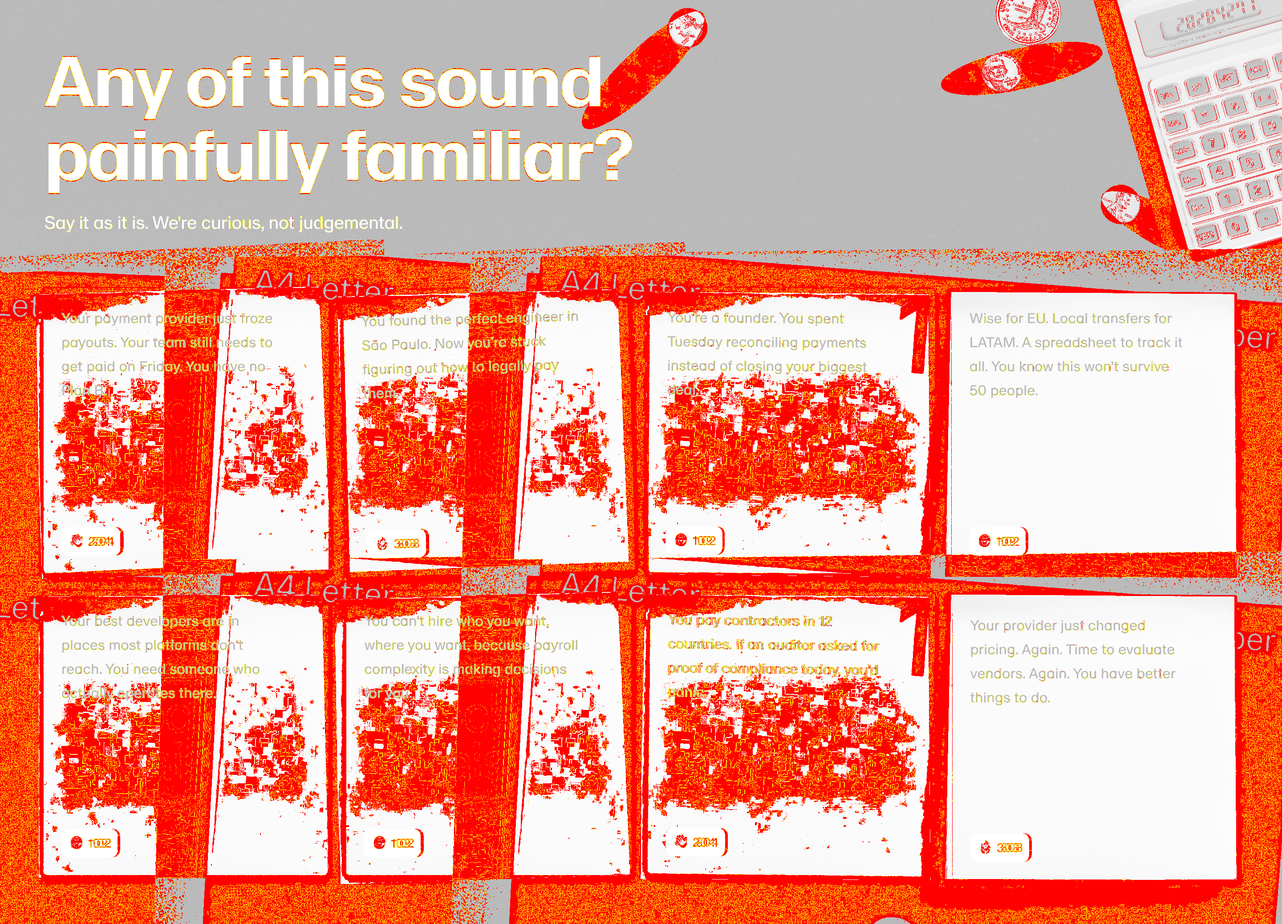
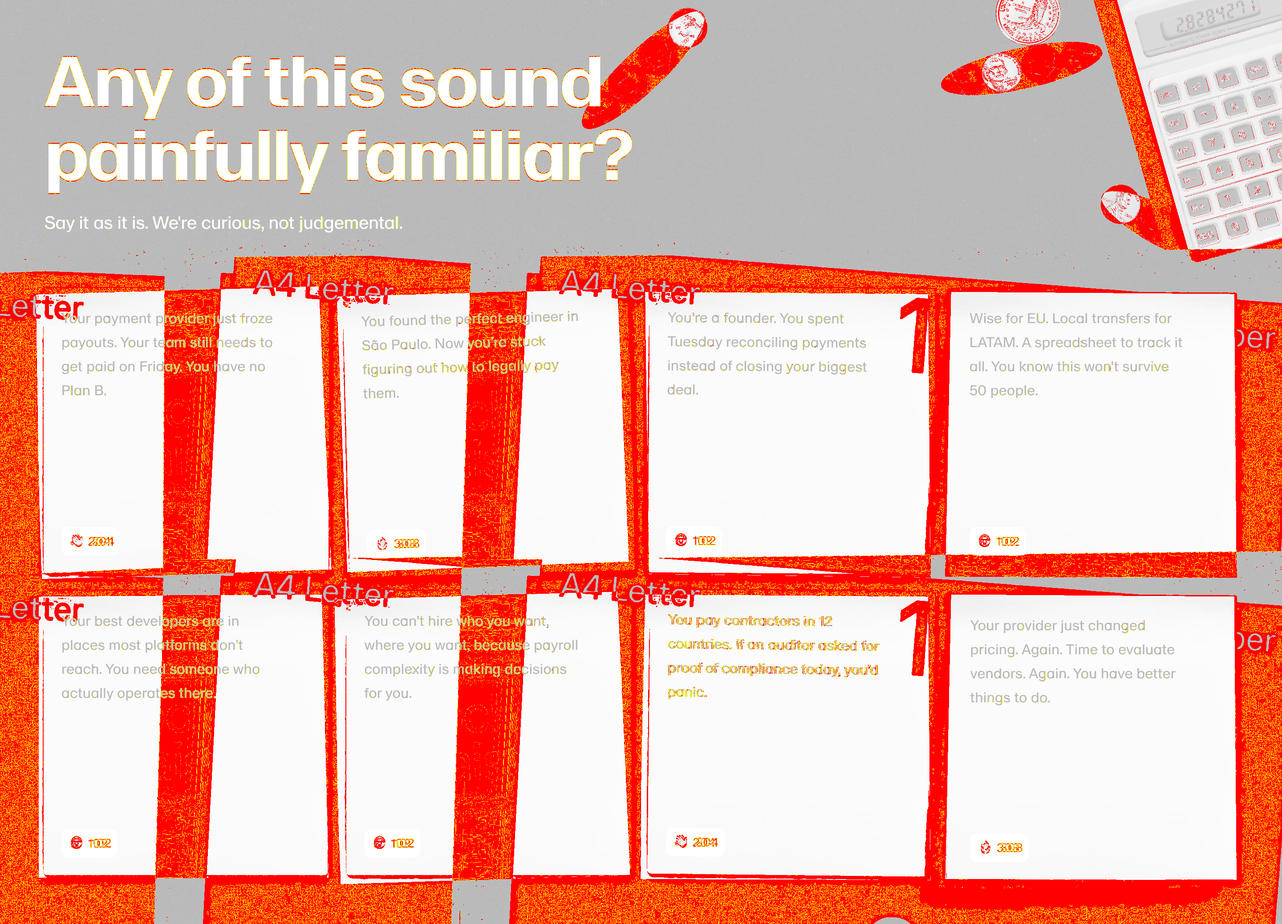
verify: neighbor-aware crop + generator top-rewrite → metrics-band 0.37% ✅
- figma-process-section.mjs: rewrite homepage-absolute top-[Npx] in generated
  components where N >= section.bbox.top (asymmetric — top only, not left).
  Plus residual-coord assertion to fail loud if rewrite misses.
- verify-pixel-perfect.mjs: sliceRows() trims neighbor-bleed zones from both
  figma.png and preview.png symmetrically before pixelmatch; threshold 0.1 → 0.15.
- node-map.json: gapBefore + bleed:{top,bottom} per section (Figma REST-derived).
- app/v2/page.tsx: reads node-map, renders each mounted section with marginTop=gapBefore.
- MetricsBand.tsx regenerated (top-[1298]→top-[0], top-[1568]→top-[270]).

Results: hero 0.27% ✅, metrics-band 0.37% ✅, pain-scenarios 19.42% (next).
See Second Brain docs/DECISIONS-INBOX/{stape-metrics-band-homepage-absolute-coords,
stape-verifier-neighbor-aware-crop}.md for full trace.

diff --git a/app/v2/page.tsx b/app/v2/page.tsx
@@ -1,38 +1,41 @@
 // Stape v2 homepage — flow-stack mount.
-// Each section is a block in normal document flow. Section bboxes live in
-// web-output/stape-v2/node-map.json; page.tsx only reserves each section's
-// Figma `height` via a wrapper div. Absolute positioning is allowed INSIDE a
-// section (where children carry Figma-absolute coords relative to the section's
-// own 0,0) but NEVER at page level.
+// Each section is a block in normal document flow. Section bbox + gapBefore live
+// in web-output/stape-v2/node-map.json (single source of truth for Figma layout).
+// gapBefore preserves Figma's inter-section spacing (typically 100px); without it
+// the flow-stack collapses and verify-pixel-perfect crops the wrong region.
 //
-// If a generated component has children with homepage-absolute Y coords baked
-// in (e.g. MetricsBand row at `top-[1298px]`), that's a pipeline bug — the
-// verify-pixel-perfect.mjs script will flag it. Do not patch page.tsx to
-// compensate; fix the generator instead.
+// Absolute positioning is allowed INSIDE a section (children carry section-local
+// coords) but NEVER at page level. If a generated component has children with
+// homepage-absolute Y coords baked in (e.g. MetricsBand row at `top-[1298px]`),
+// that's a pipeline bug — fix the generator, not page.tsx.
 
 import Hero from '@/components/v2/Hero';
 import MetricsBand from '@/components/v2/MetricsBand';
 import PainScenarios from '@/components/v2/PainScenarios';
+import nodeMap from '@/web-output/stape-v2/node-map.json';
 
-// Heights from web-output/stape-v2/node-map.json (bbox.height).
-const SECTION_HEIGHTS = {
-  hero: 1198,
-  metricsBand: 530,
-  painScenarios: 1038,
-} as const;
+const COMPONENTS: Record<string, React.ComponentType> = {
+  hero: Hero,
+  'metrics-band': MetricsBand,
+  'pain-scenarios': PainScenarios,
+};
 
 export default function HomeV2() {
+  const mounted = nodeMap.sections.filter((s) => COMPONENTS[s.name]);
   return (
     <main className="w-[1440px] mx-auto bg-white">
-      <div className="relative w-full" style={{ height: SECTION_HEIGHTS.hero }}>
-        <Hero />
-      </div>
-      <div className="relative w-full" style={{ height: SECTION_HEIGHTS.metricsBand }}>
-        <MetricsBand />
-      </div>
-      <div className="relative w-full" style={{ height: SECTION_HEIGHTS.painScenarios }}>
-        <PainScenarios />
-      </div>
+      {mounted.map((s) => {
+        const Component = COMPONENTS[s.name];
+        return (
+          <div
+            key={s.name}
+            className="relative w-full"
+            style={{ height: s.bbox.height, marginTop: s.gapBefore }}
+          >
+            <Component />
+          </div>
+        );
+      })}
     </main>
   );
 }

diff --git a/components/v2/MetricsBand.tsx b/components/v2/MetricsBand.tsx
@@ -10,7 +10,7 @@ const imgImage6 = "/stape-website/v2-assets/metrics-band/d10c1ea8971f8551c796346
 export default function SectionMetricsBand() {
   return (
     <div className="contents relative size-full" data-name="section/metrics-band" data-node-id="310:841">
-      <div className="absolute gap-x-[10px] grid grid-cols-[repeat(5,minmax(0,1fr))] grid-rows-[repeat(1,fit-content(100%))] left-[50px] top-[1298px] w-[1340px]" data-node-id="310:842">
+      <div className="absolute gap-x-[10px] grid grid-cols-[repeat(5,minmax(0,1fr))] grid-rows-[repeat(1,fit-content(100%))] left-[50px] top-[0px] w-[1340px]" data-node-id="310:842">
         <div className="bg-[#f5f5f5] col-[1/span_2] content-stretch flex flex-col items-start justify-between justify-self-stretch overflow-clip p-[20px] relative rounded-[20px] row-start-1 self-stretch shrink-0" data-node-id="310:843">
           <p className="font-['ABC_Schengen_A_Cyrillic:Regular',sans-serif] leading-[1.36] not-italic relative shrink-0 text-[#727272] text-[16px] tracking-[0.16px] w-full" data-node-id="310:844" style={{ fontFeatureSettings: "'ss02'" }}>
             Fixed Per Payout
@@ -48,7 +48,7 @@ export default function SectionMetricsBand() {
           </p>
         </div>
       </div>
-      <div className="absolute gap-x-[10px] grid grid-cols-[repeat(5,minmax(0,1fr))] grid-rows-[repeat(1,fit-content(100%))] left-[50px] top-[1568px] w-[1340px]" data-node-id="310:857">
+      <div className="absolute gap-x-[10px] grid grid-cols-[repeat(5,minmax(0,1fr))] grid-rows-[repeat(1,fit-content(100%))] left-[50px] top-[270px] w-[1340px]" data-node-id="310:857">
         <div className="bg-[#f5f5f5] col-start-3 content-stretch flex flex-col items-start justify-between justify-self-stretch not-italic overflow-clip p-[20px] relative rounded-[20px] row-start-1 self-stretch shrink-0" data-node-id="310:858">
           <p className="font-['ABC_Schengen_A_Cyrillic:Regular',sans-serif] leading-[1.4] relative shrink-0 text-[#727272] text-[16px] tracking-[0.16px] w-full" data-node-id="310:859" style={{ fontFeatureSettings: "'ss02'" }}>
             From signup to first payment

diff --git a/web-output/stape-v2/verification.md b/web-output/stape-v2/verification.md
@@ -1,15 +1,15 @@
 # Pixel-Perfect Verification
 
-**Generated:** 2026-04-14T15:46:19.564Z
+**Generated:** 2026-04-14T16:28:32.511Z
 **Base URL:** http://localhost:3000/stape-website/v2
 **Threshold:** 3.0% pixel diff
 **Scope:** all sections
 
 | Section | nodeId | Diff | Mode | Status |
 |---------|--------|------|------|--------|
-| hero | `310:1660` | 0.30% | bbox-crop | ✅ pass |
-| metrics-band | `310:841` | 33.05% | bbox-crop | ❌ fail |
-| pain-scenarios | `310:872` | 30.12% | selector | ❌ fail |
+| hero | `310:1660` | 0.27% | bbox-crop | ✅ pass |
+| metrics-band | `310:841` | 0.37% | bbox-crop | ✅ pass |
+| pain-scenarios | `310:872` | 19.42% | selector | ❌ fail |
 | tuesday-comparison | `2011:740` | — | — | ⏭ skipped |
 | how-it-works | `310:973` | — | — | ⏭ skipped |
 | legal-architecture | `310:1204` | — | — | ⏭ skipped |
@@ -24,6 +24,14 @@
 **Artifacts per section:** `web-output/stape-v2/sections/<name>/{figma,preview,diff}.png`
 
 ---
+
+## Prior runs
+
+## Prior runs
+
+## Prior runs
+
+## Prior runs
 
 ## Prior runs
 

diff --git a/.project-journal/session-log.md b/.project-journal/session-log.md
@@ -28,3 +28,8 @@
 [2026-04-14 17:15] Edit → scripts/verify-pixel-perfect.mjs
 [2026-04-14 17:15] Edit → scripts/verify-pixel-perfect.mjs
 [2026-04-14 17:39] Edit → scripts/verify-pixel-perfect.mjs
+[2026-04-14 18:04] Write → app/v2/page.tsx
+[2026-04-14 18:16] Edit → scripts/figma-process-section.mjs
+[2026-04-14 18:16] Edit → scripts/figma-process-section.mjs
+[2026-04-14 18:27] Edit → scripts/verify-pixel-perfect.mjs
+[2026-04-14 18:27] Edit → scripts/verify-pixel-perfect.mjs
